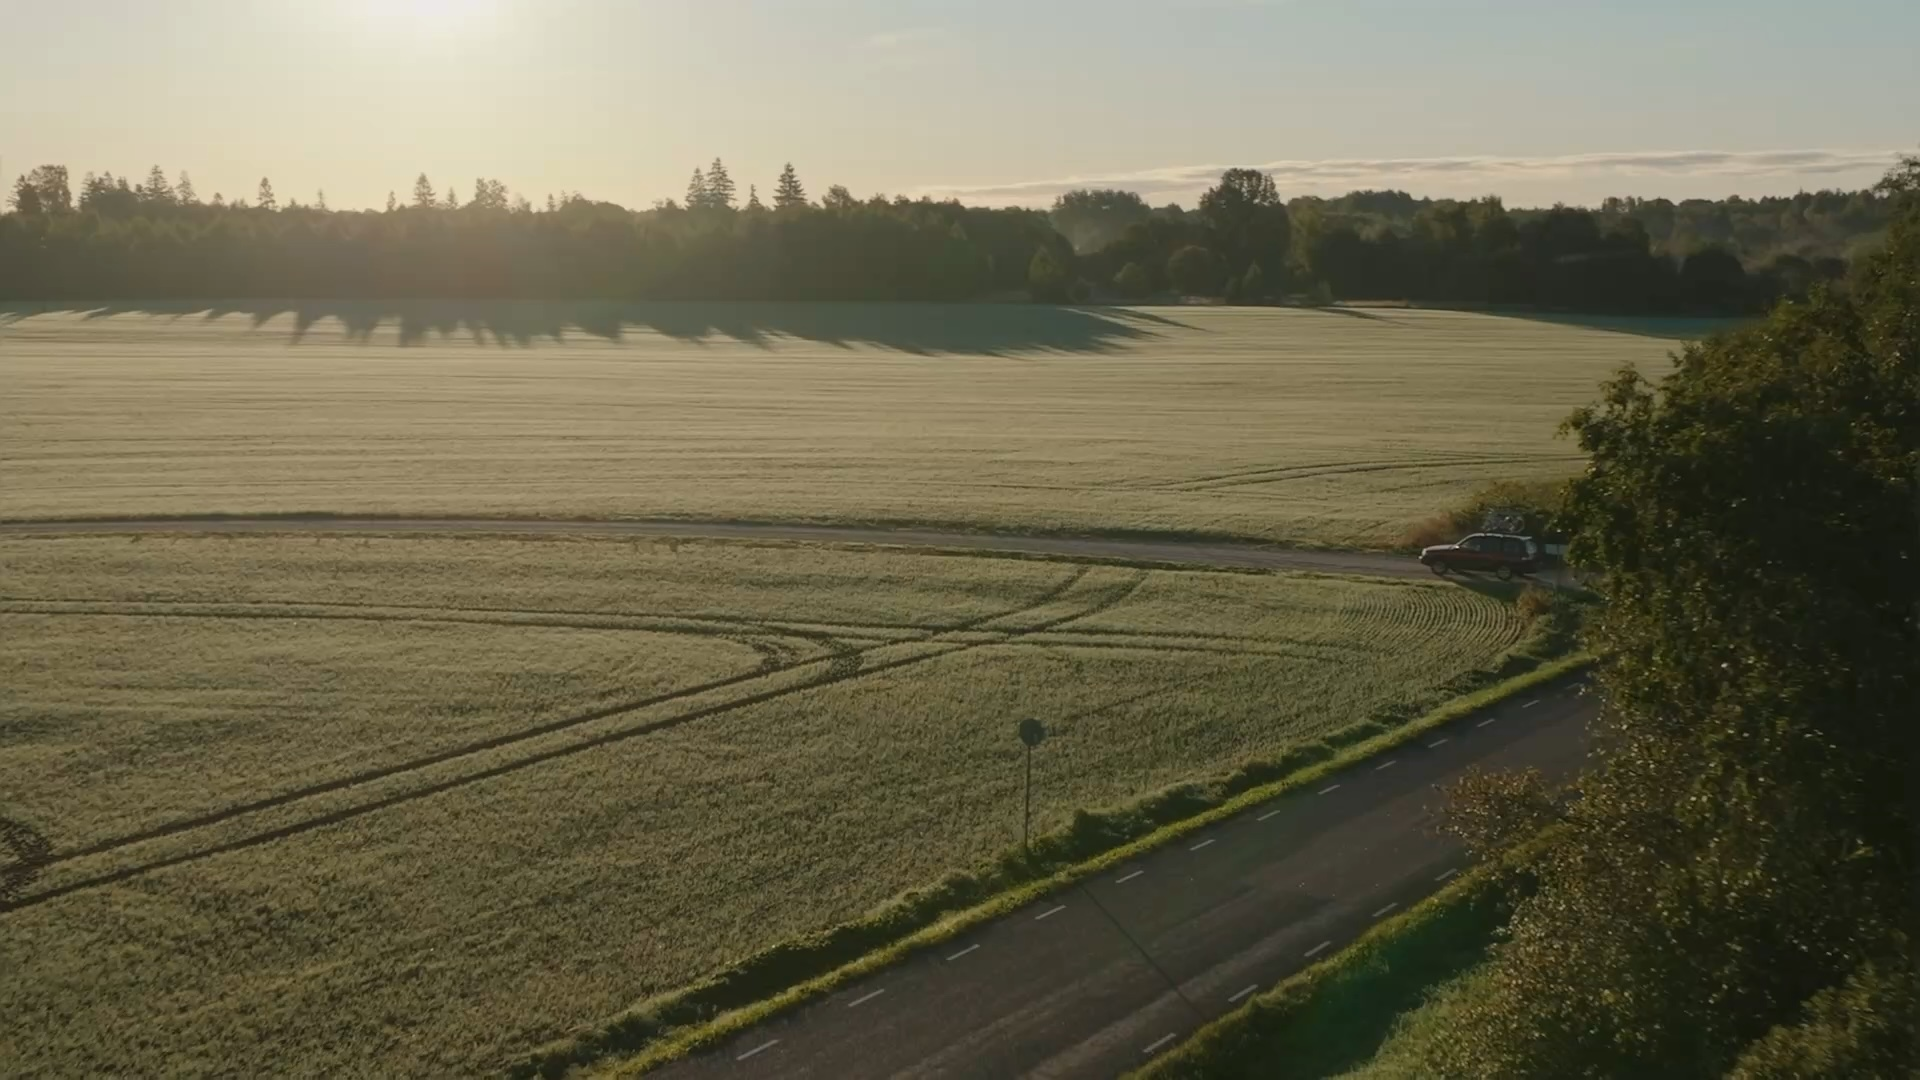
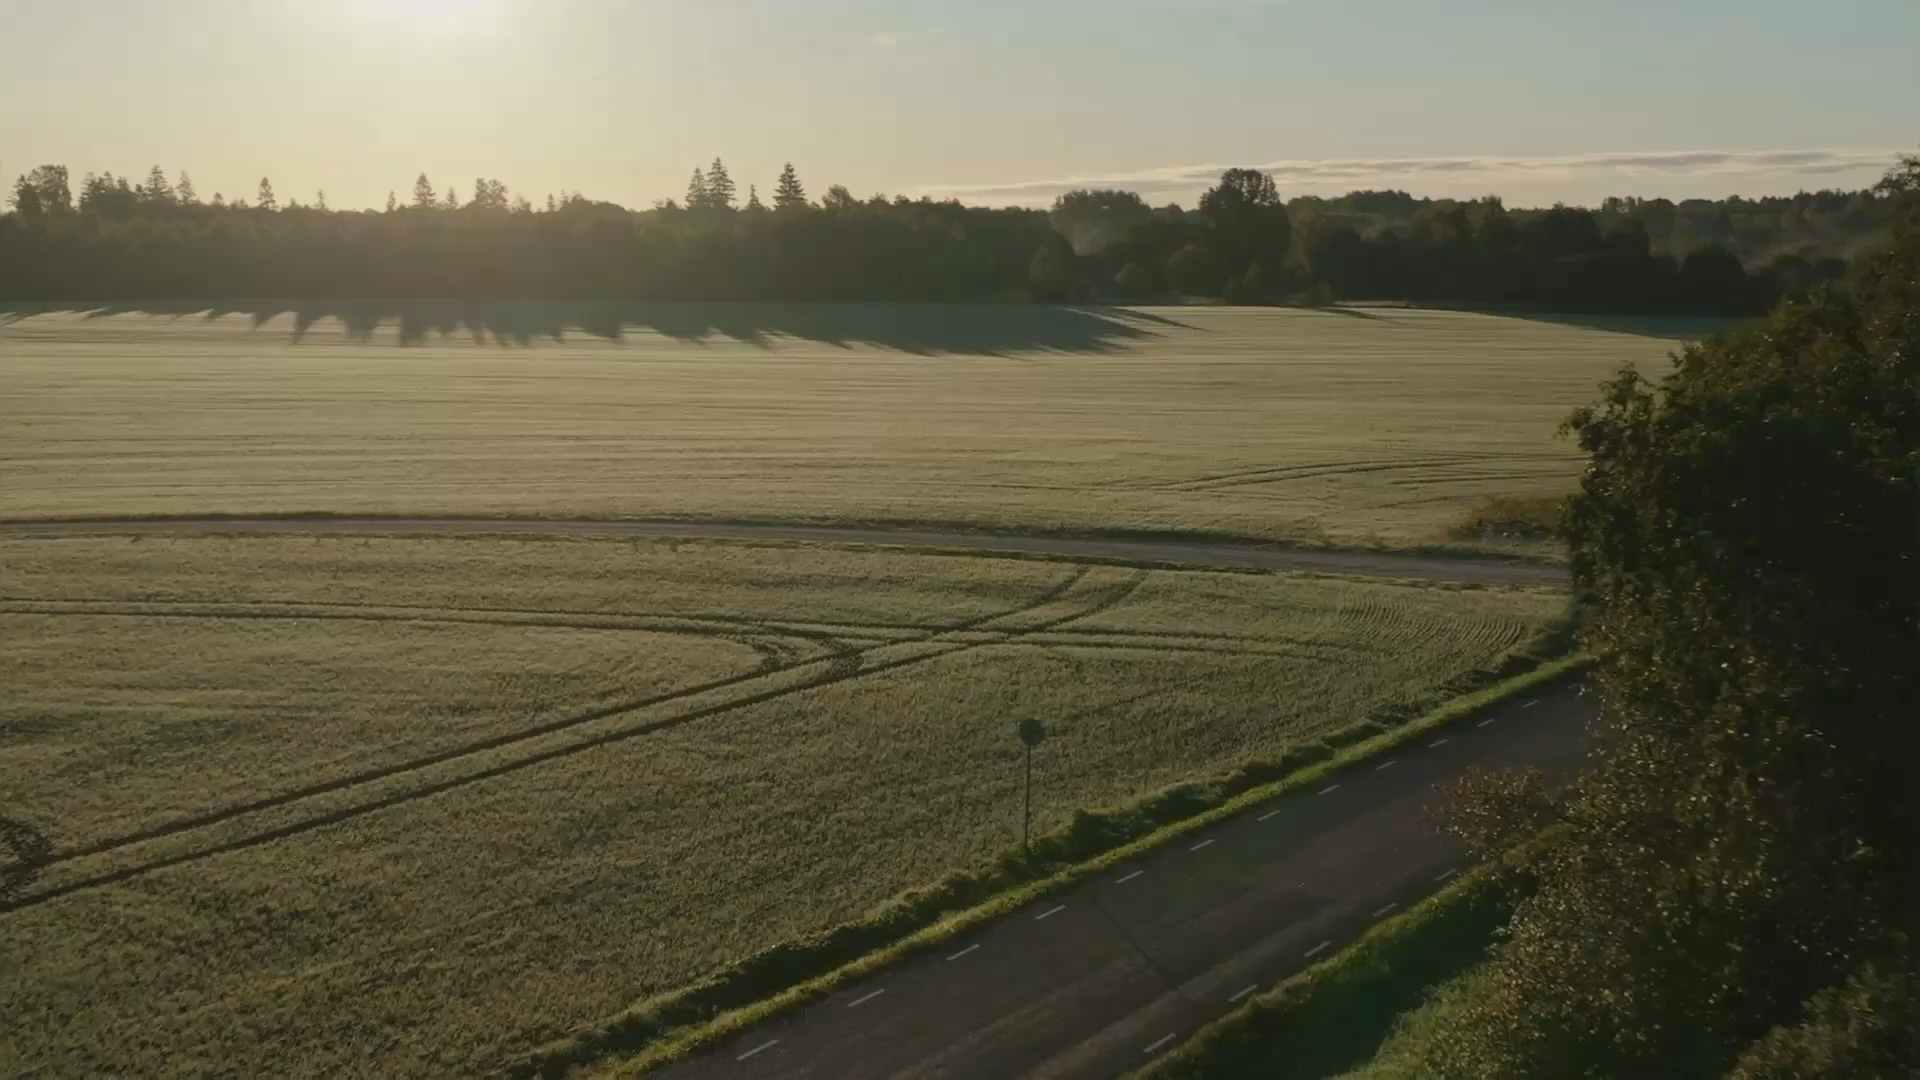
ET pages: relative home links (parity with EN) + hero/CSS polish
- Home link href '/' -> 'index.html' on all 5 ET pages, matching EN
- Header hero image object-position right, bottom anchor
- proof__item: Adieu font, fluid size; tighten section/hero gaps
- Re-compress video/sun.jpg

Changed region(s): [[0.6875, 0.4278, 0.8438, 0.5806]]

diff --git a/src/style.css b/src/style.css
@@ -66,8 +66,8 @@ h3 {
   font-size: clamp(var(--title-display-xs), 3vw, var(--title-display-sm));
   font-weight: 700;
   text-align: left;
-  @media (--viewport-lg) {
-    margin-bottom: -10rem;
+  @media (--viewport-xl) {
+    /* margin-bottom: -12rem; */
   }
 }
 
@@ -91,7 +91,8 @@ header {
   object-fit: cover;
   border-radius: 0;
   -o-object-position: top;
-  object-position: top right;
+  object-position: right;
+    bottom: 0;
 }
 
 .nav {
@@ -497,7 +498,7 @@ main {
   flex-direction: column;
   gap: var(--gap-xl);
   @media (--viewport-xl) {
-    gap: var(--gap-xxxl);
+    gap: var(--gap-xxl);
   }
 }
 section {
@@ -691,7 +692,8 @@ figcaption {
 .proof__item {
   position: relative;
   padding-left: 3rem;
-  font-size: 1.125rem;
+  font-family: "Adieu", sans-serif;
+  font-size: clamp(1.25rem, 3vw, var(--title-display-xs));
   font-weight: 600;
   line-height: 1.3;
 }

diff --git a/css/style.css b/css/style.css
@@ -1266,9 +1266,9 @@ h3 {
   font-weight: 700;
   text-align: left;
 }
-@media (min-width: 768px) {
+@media (min-width: 1200px) {
 .section-group-title {
-    margin-bottom: -10rem
+    /* margin-bottom: -12rem; */
 }
   }
 p {
@@ -1289,7 +1289,8 @@ header {
   object-fit: cover;
   border-radius: 0;
   -o-object-position: top;
-  object-position: top right;
+  object-position: right;
+    bottom: 0;
 }
 .nav {
   display: flex;
@@ -1662,7 +1663,7 @@ main {
 }
 @media (min-width: 1200px) {
 main {
-    gap: var(--gap-xxxl)
+    gap: var(--gap-xxl)
 }
   }
 section {
@@ -1850,7 +1851,8 @@ figcaption {
 .proof__item {
   position: relative;
   padding-left: 3rem;
-  font-size: 1.125rem;
+  font-family: "Adieu", sans-serif;
+  font-size: clamp(1.25rem, 3vw, var(--title-display-xs));
   font-weight: 600;
   line-height: 1.3;
 }

diff --git a/index.html b/index.html
@@ -62,7 +62,7 @@
       <div class="menu__container">
         <div class="menu">
           <div class="menu__section">
-            <a href="/" class="menu__button menu__button--active">
+            <a href="index.html" class="menu__button menu__button--active">
               <span class="menu__icon menu__icon--home"></span>
               Avaleht
             </a>
@@ -876,7 +876,7 @@
 
           <nav class="footer__nav">
             <div class="menu__section">
-              <a href="/" class="menu__button menu__button--active">
+              <a href="index.html" class="menu__button menu__button--active">
                 <span class="menu__icon menu__icon--home"></span>
                 Avaleht
               </a>

diff --git a/arisuunad.html b/arisuunad.html
@@ -80,7 +80,7 @@
         <div class="menu__container">
           <div class="menu">
             <div class="menu__section">
-              <a href="/" class="menu__button">
+              <a href="index.html" class="menu__button">
                 <span class="menu__icon menu__icon--home"></span>
                 Avaleht
               </a>
@@ -1397,7 +1397,7 @@
           <div class="footer__menu">
             <nav class="footer__nav">
               <div class="menu__section">
-                <a href="/" class="menu__button">
+                <a href="index.html" class="menu__button">
                   <span class="menu__icon menu__icon--home"></span>
                   Avaleht
                 </a>

diff --git a/finantstulemused.html b/finantstulemused.html
@@ -62,7 +62,7 @@
       <div class="menu__container">
         <div class="menu">
           <div class="menu__section">
-            <a href="/" class="menu__button">
+            <a href="index.html" class="menu__button">
               <span class="menu__icon menu__icon--home"></span>
               Avaleht
             </a>
@@ -1375,7 +1375,7 @@
 
           <nav class="footer__nav">
             <div class="menu__section">
-              <a href="/" class="menu__button">
+              <a href="index.html" class="menu__button">
                 <span class="menu__icon menu__icon--home"></span>
                 Avaleht
               </a>

diff --git a/kestlikkus.html b/kestlikkus.html
@@ -62,7 +62,7 @@
       <div class="menu__container">
         <div class="menu">
           <div class="menu__section">
-            <a href="/" class="menu__button">
+            <a href="index.html" class="menu__button">
               <span class="menu__icon menu__icon--home"></span>
               Avaleht
             </a>
@@ -1720,7 +1720,7 @@
 
           <nav class="footer__nav">
             <div class="menu__section">
-              <a href="/" class="menu__button">
+              <a href="index.html" class="menu__button">
                 <span class="menu__icon menu__icon--home"></span>
                 Avaleht
               </a>

diff --git a/ettevottest.html b/ettevottest.html
@@ -62,7 +62,7 @@
       <div class="menu__container">
         <div class="menu">
           <div class="menu__section">
-            <a href="/" class="menu__button">
+            <a href="index.html" class="menu__button">
               <span class="menu__icon menu__icon--home"></span>
               Avaleht
             </a>
@@ -669,7 +669,7 @@
 
           <nav class="footer__nav">
             <div class="menu__section">
-              <a href="/" class="menu__button">
+              <a href="index.html" class="menu__button">
                 <span class="menu__icon menu__icon--home"></span>
                 Avaleht
               </a>
